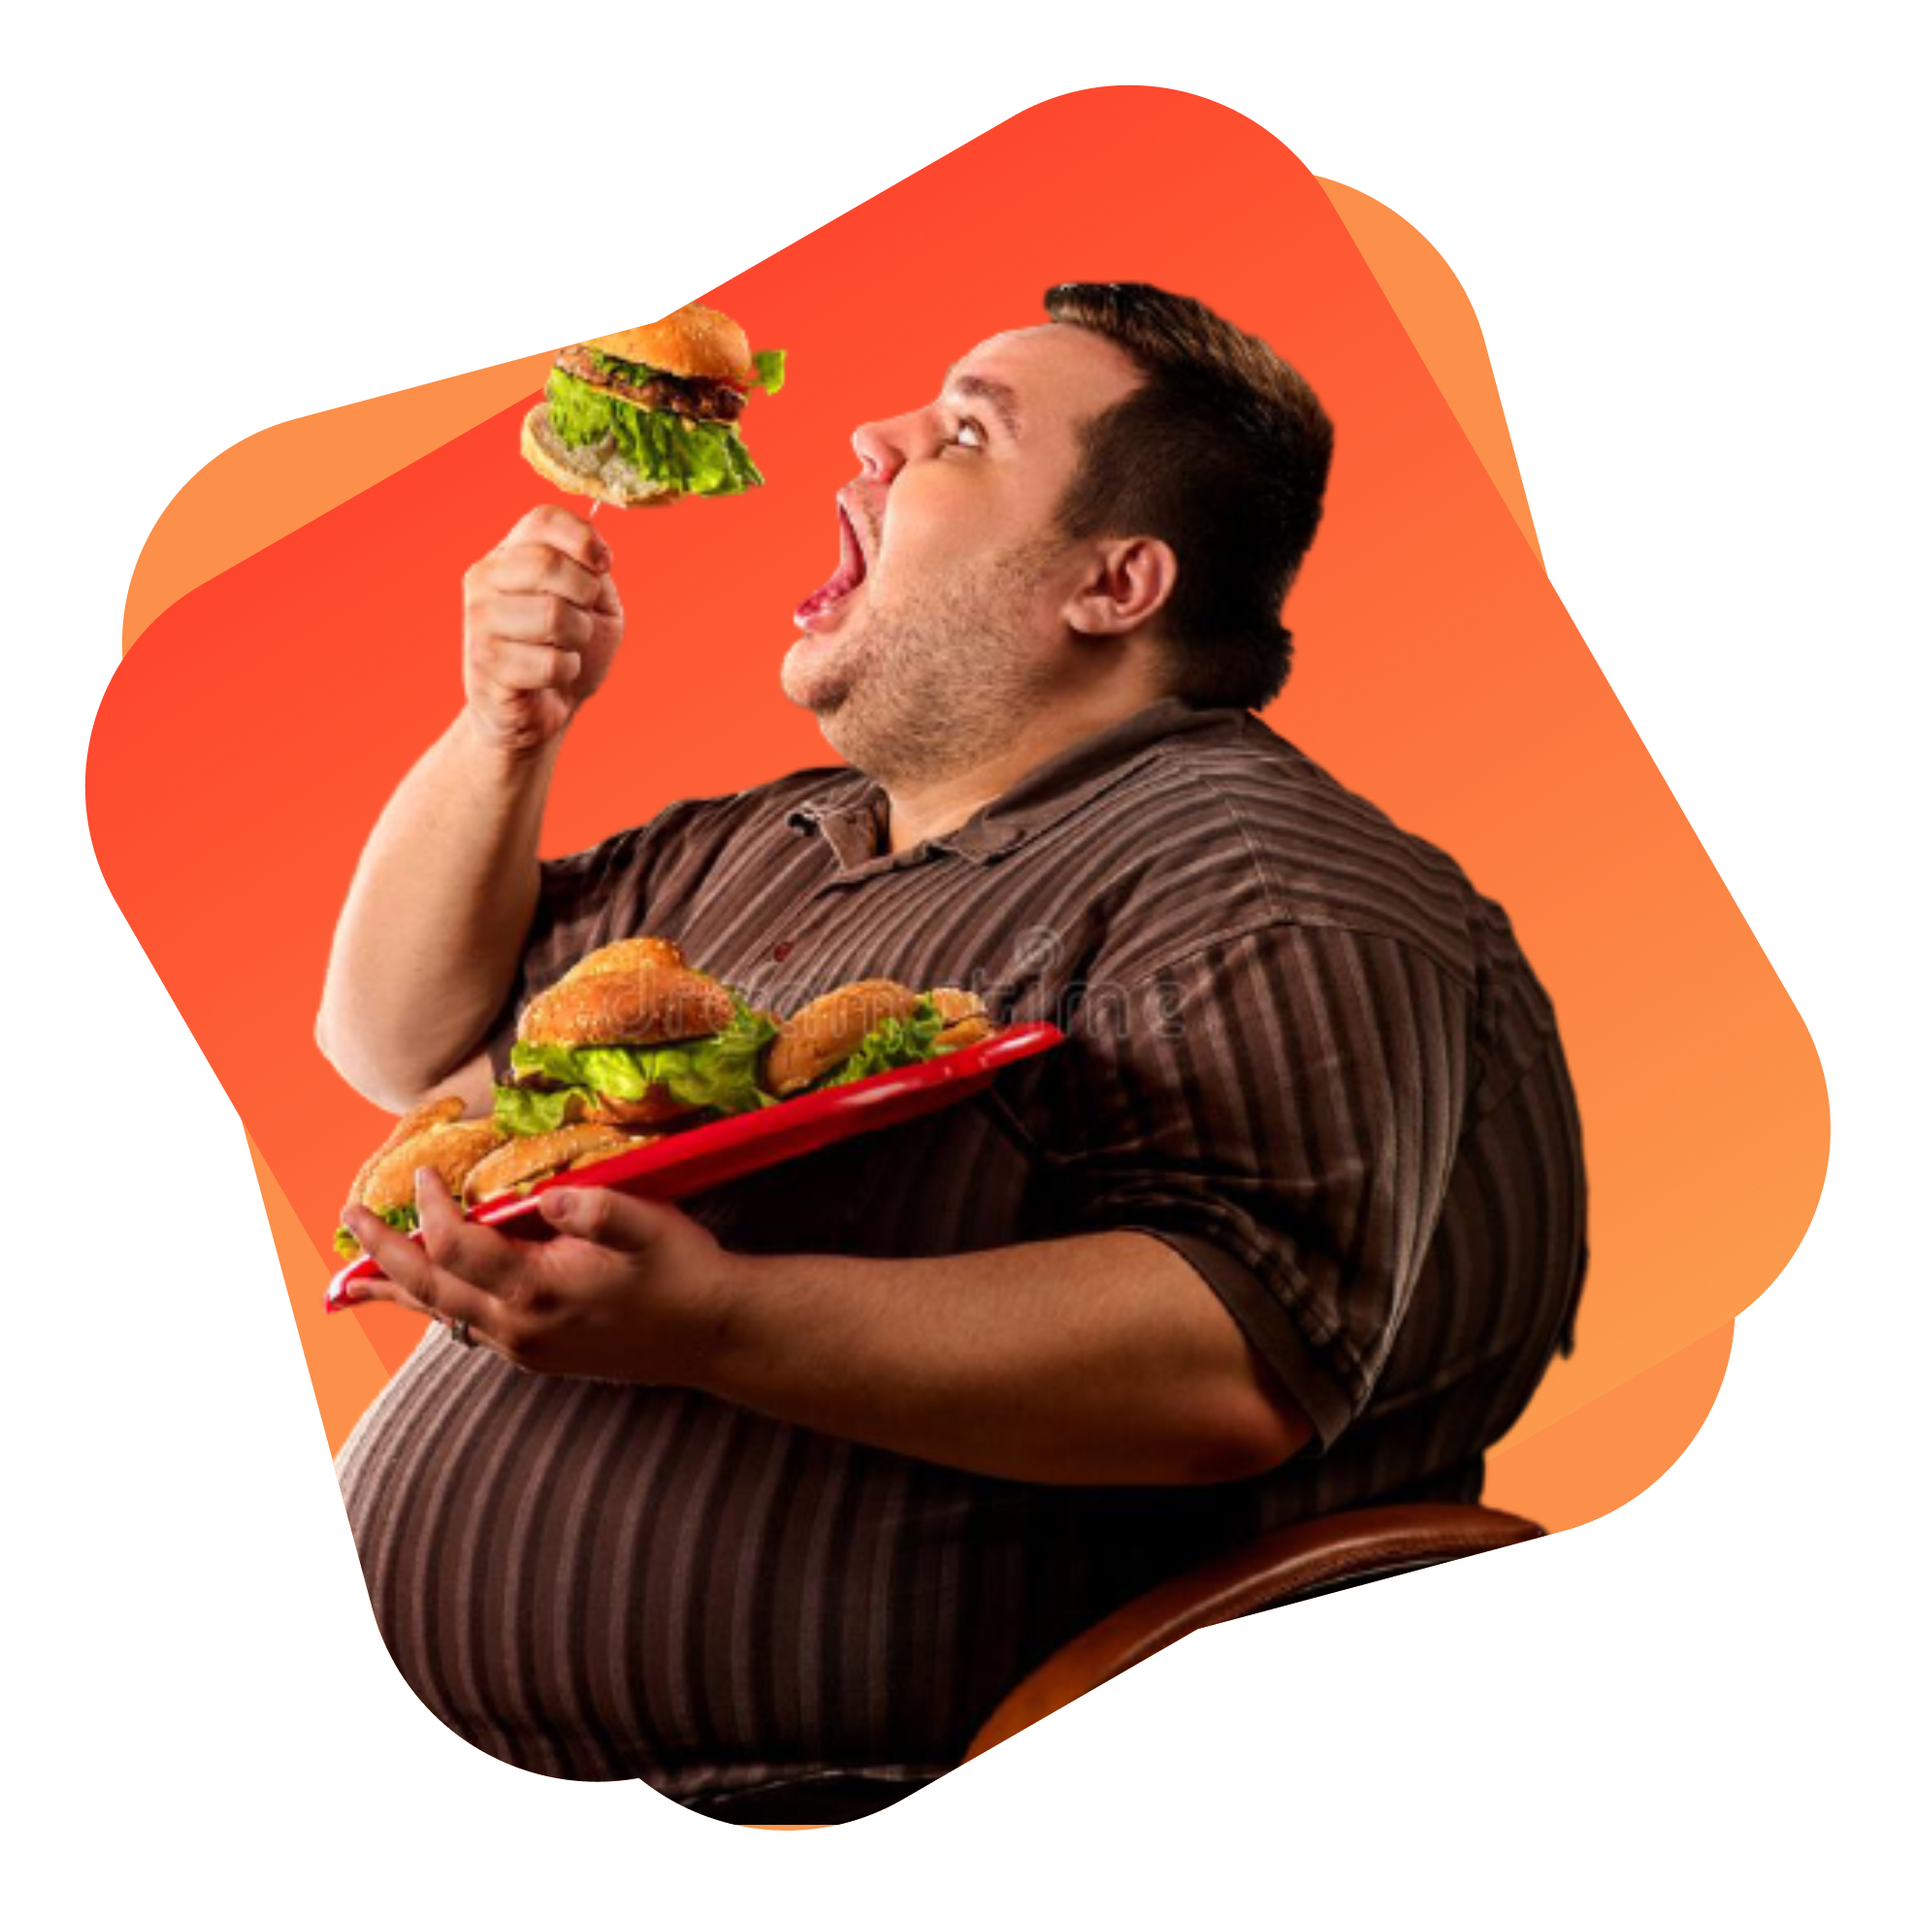
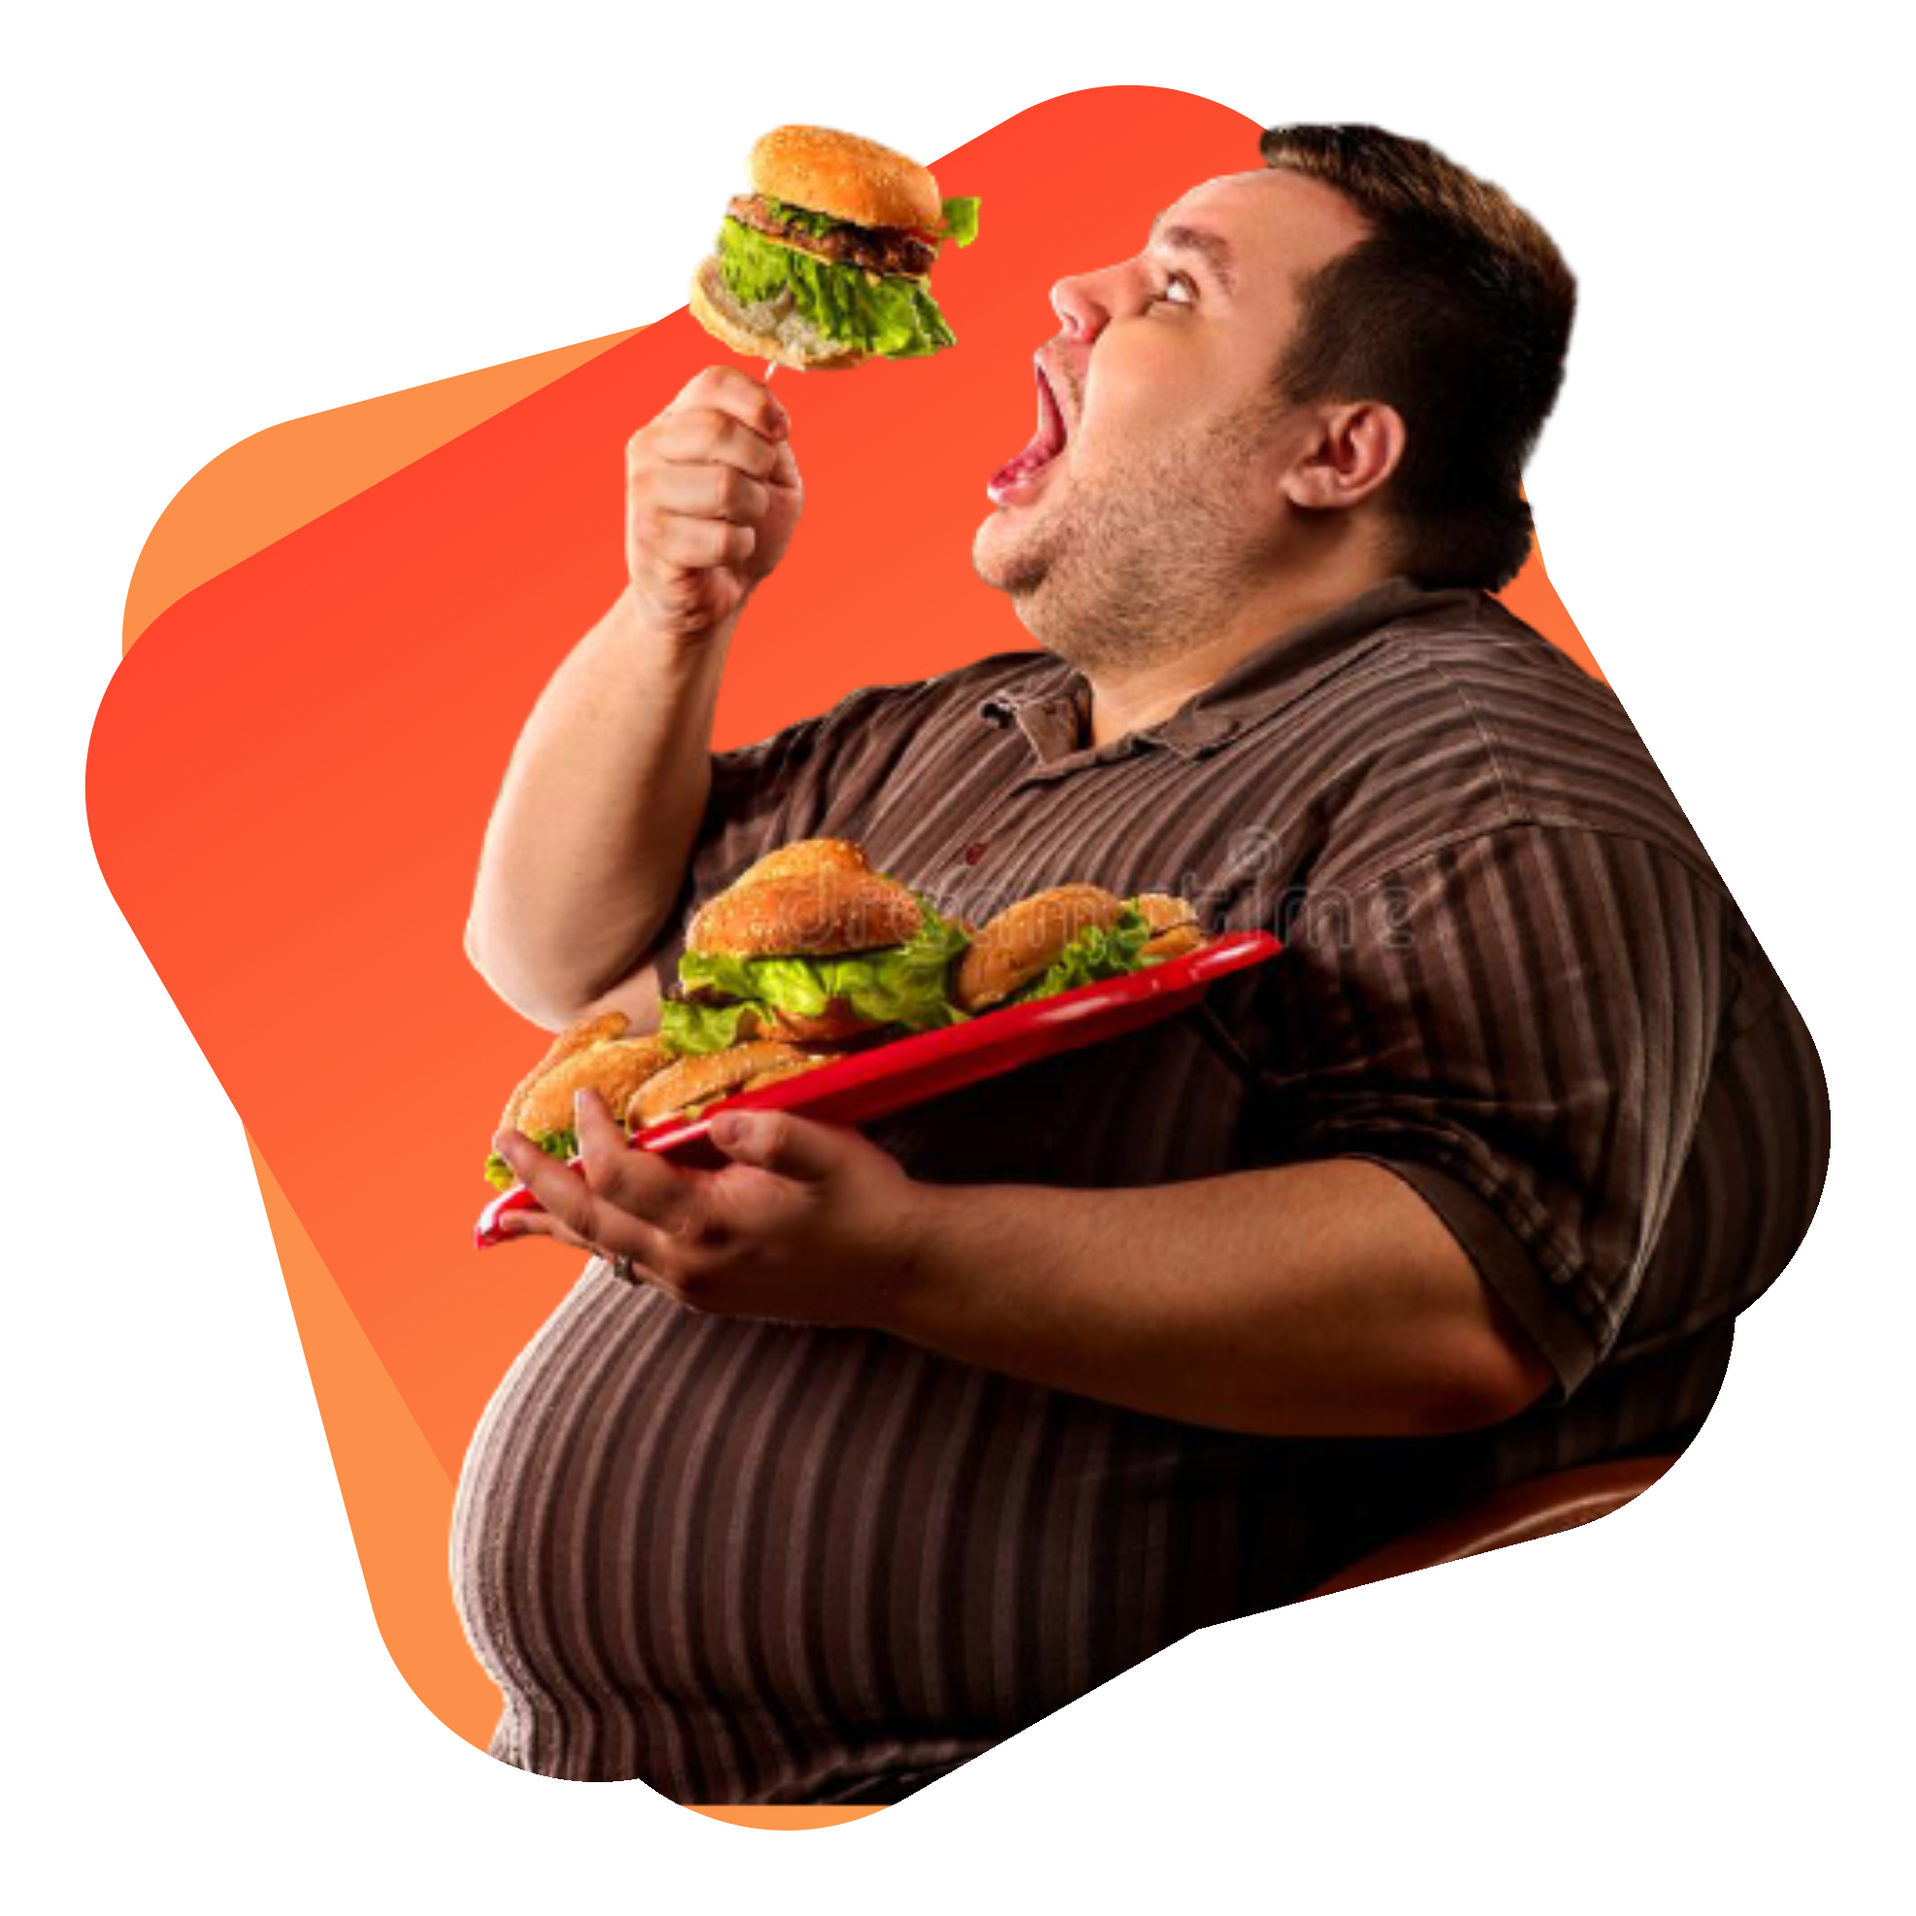
final commit

diff --git a/style.css b/style.css
@@ -27,7 +27,7 @@ body{
 }
 .half-page{
     width: 50%;
-    padding: 20px;
+    padding: 0 20px;
     margin-left: 30px;
 }
 .half-page img{
@@ -46,7 +46,7 @@ body{
     color:#3b3a3ace
 }
 .intro-text p{
-    color: #3a3939ce;
+    color: #3a3939a8;
     margin: 50px 0;
     font-size: larger;
 }
@@ -60,6 +60,7 @@ body{
 .second-page{
     background-image: url(images/background.png);
 }
+
 #resize-header{
     font-size:30px ;
 }
@@ -100,7 +101,7 @@ body{
 }
 footer{
     background-color:rgba(0, 1, 12, 0.973);
-    padding: 80px;
+    padding: 50px;
 }
 .footer-text{
     text-align: center;

diff --git a/index.html b/index.html
@@ -46,7 +46,7 @@
     <section class="second-page">
         <div class="full-page">
             <div class="half-page">
-                <img src="images/pic3.png" alt="">
+                <img id="chef-image" src="images/pic2.png" alt="">
             </div>
             <div class="half-page">
                 <div class="intro-text">
